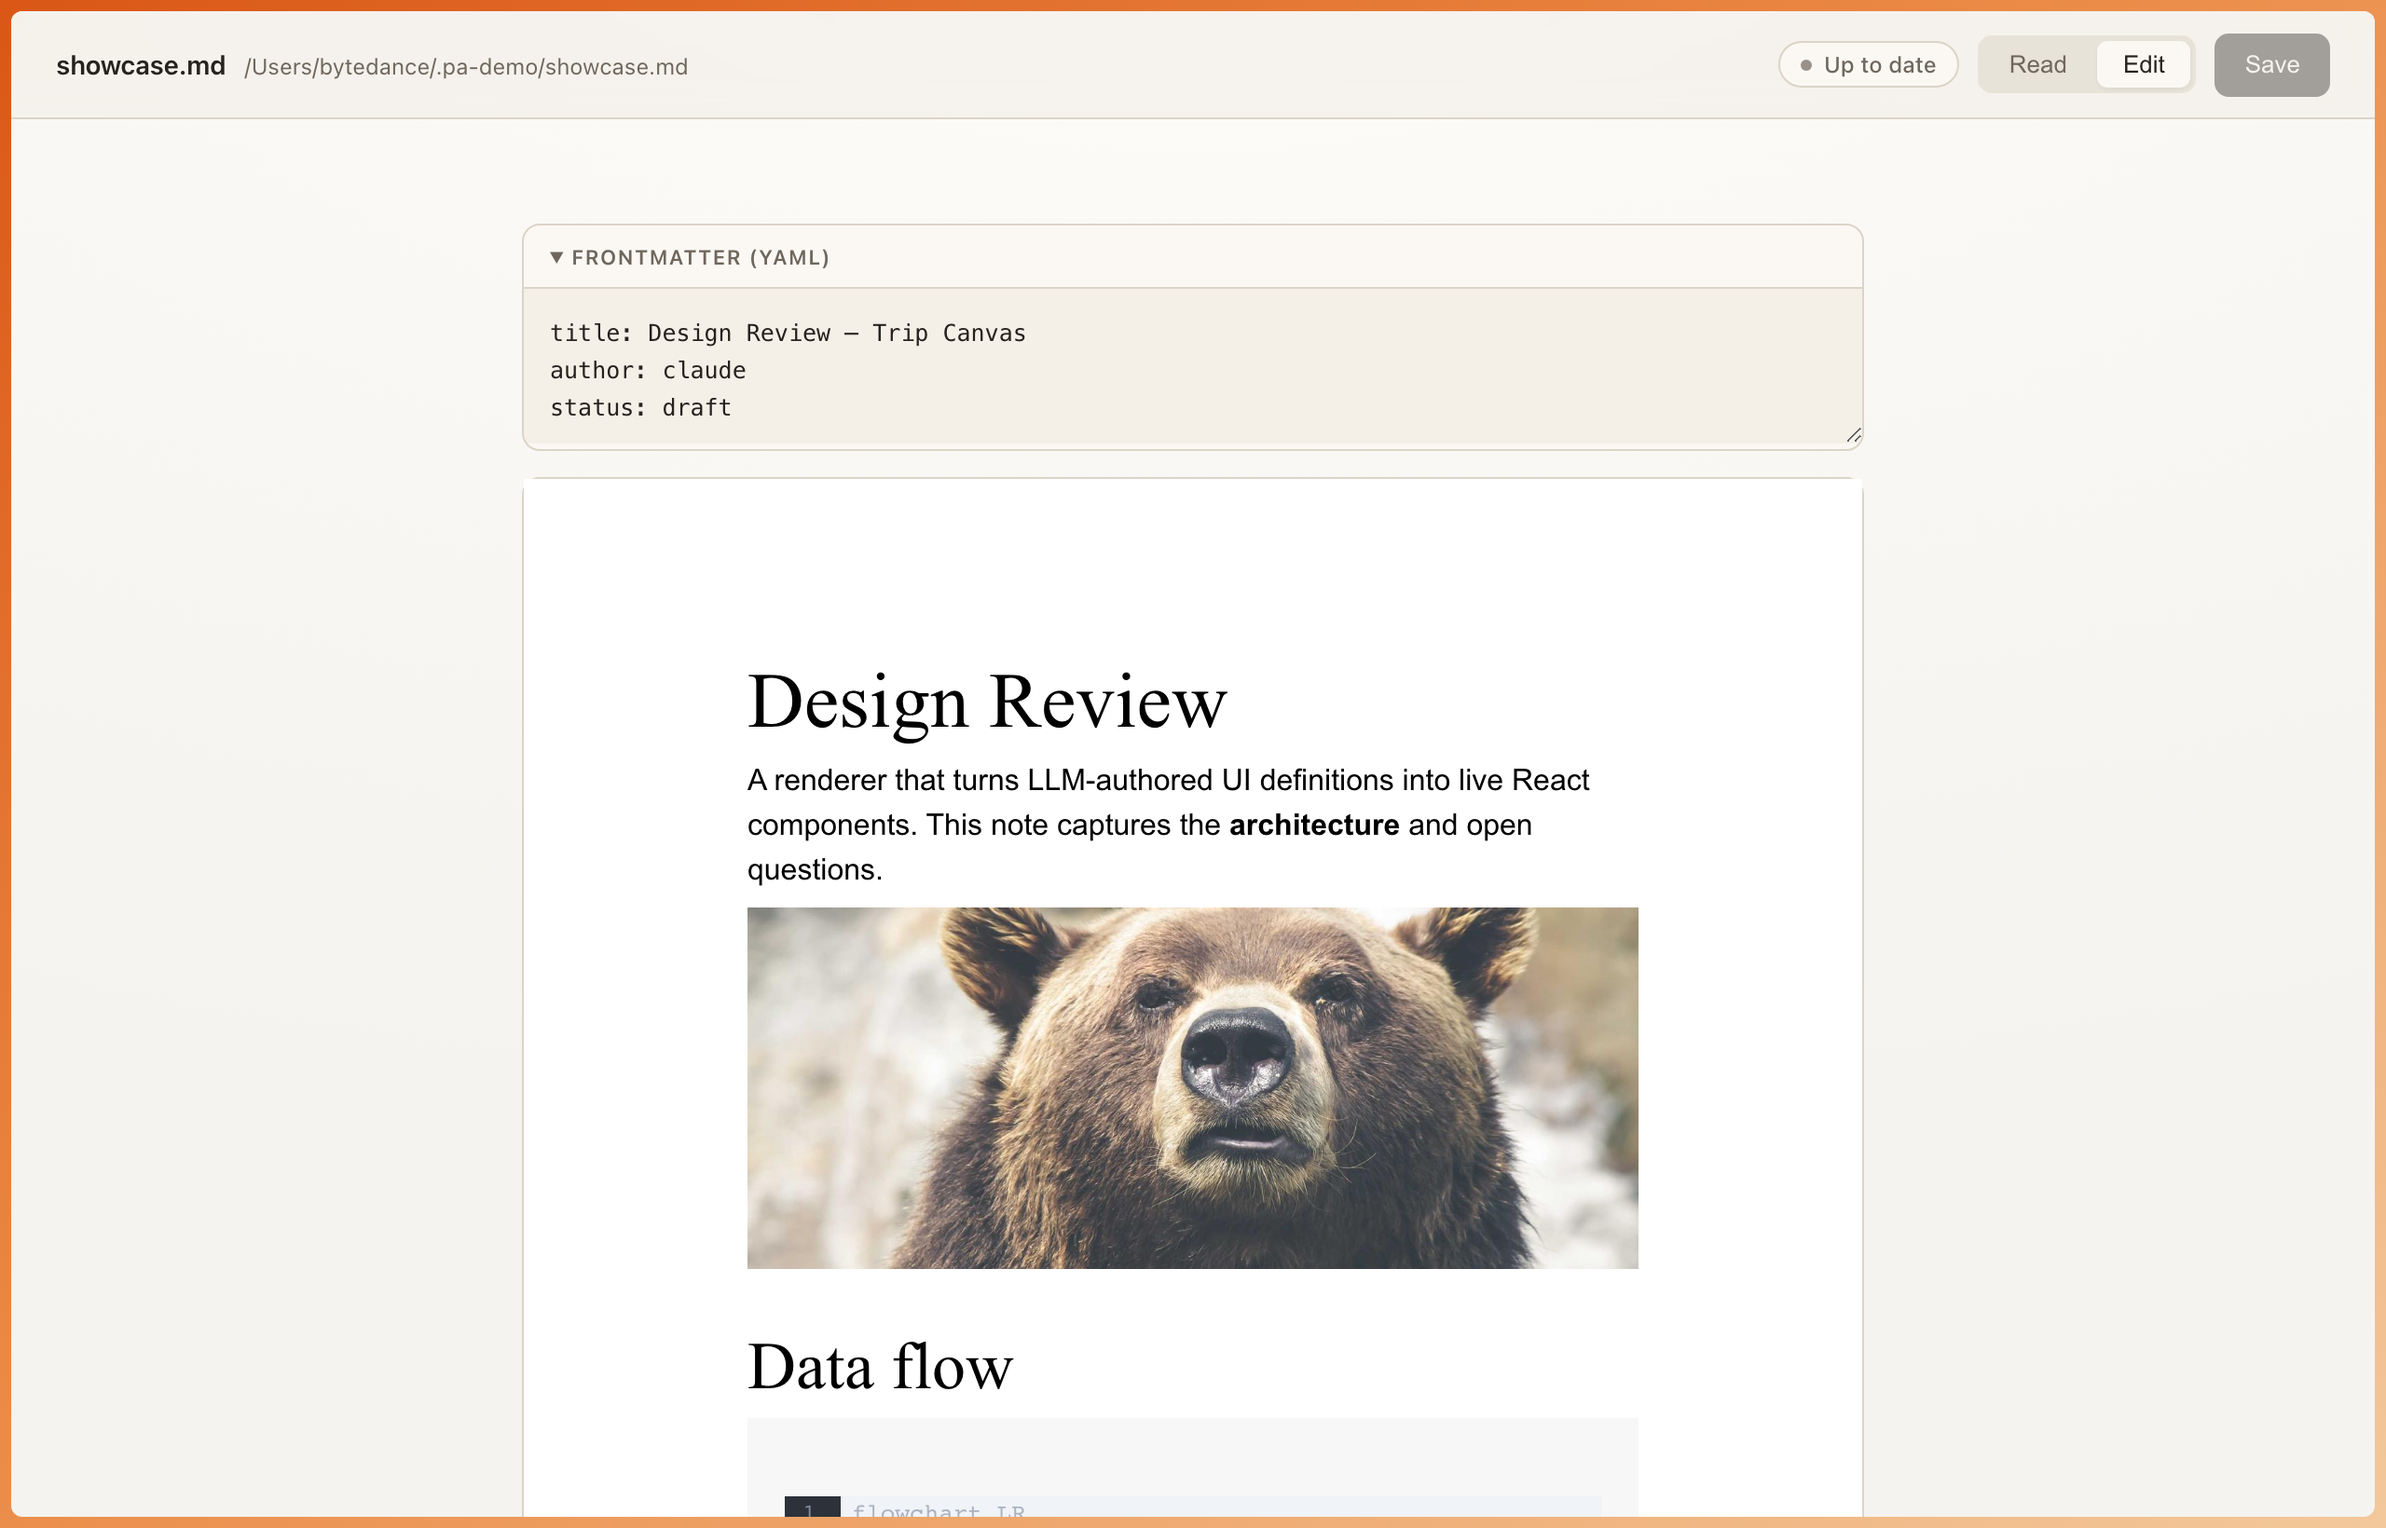
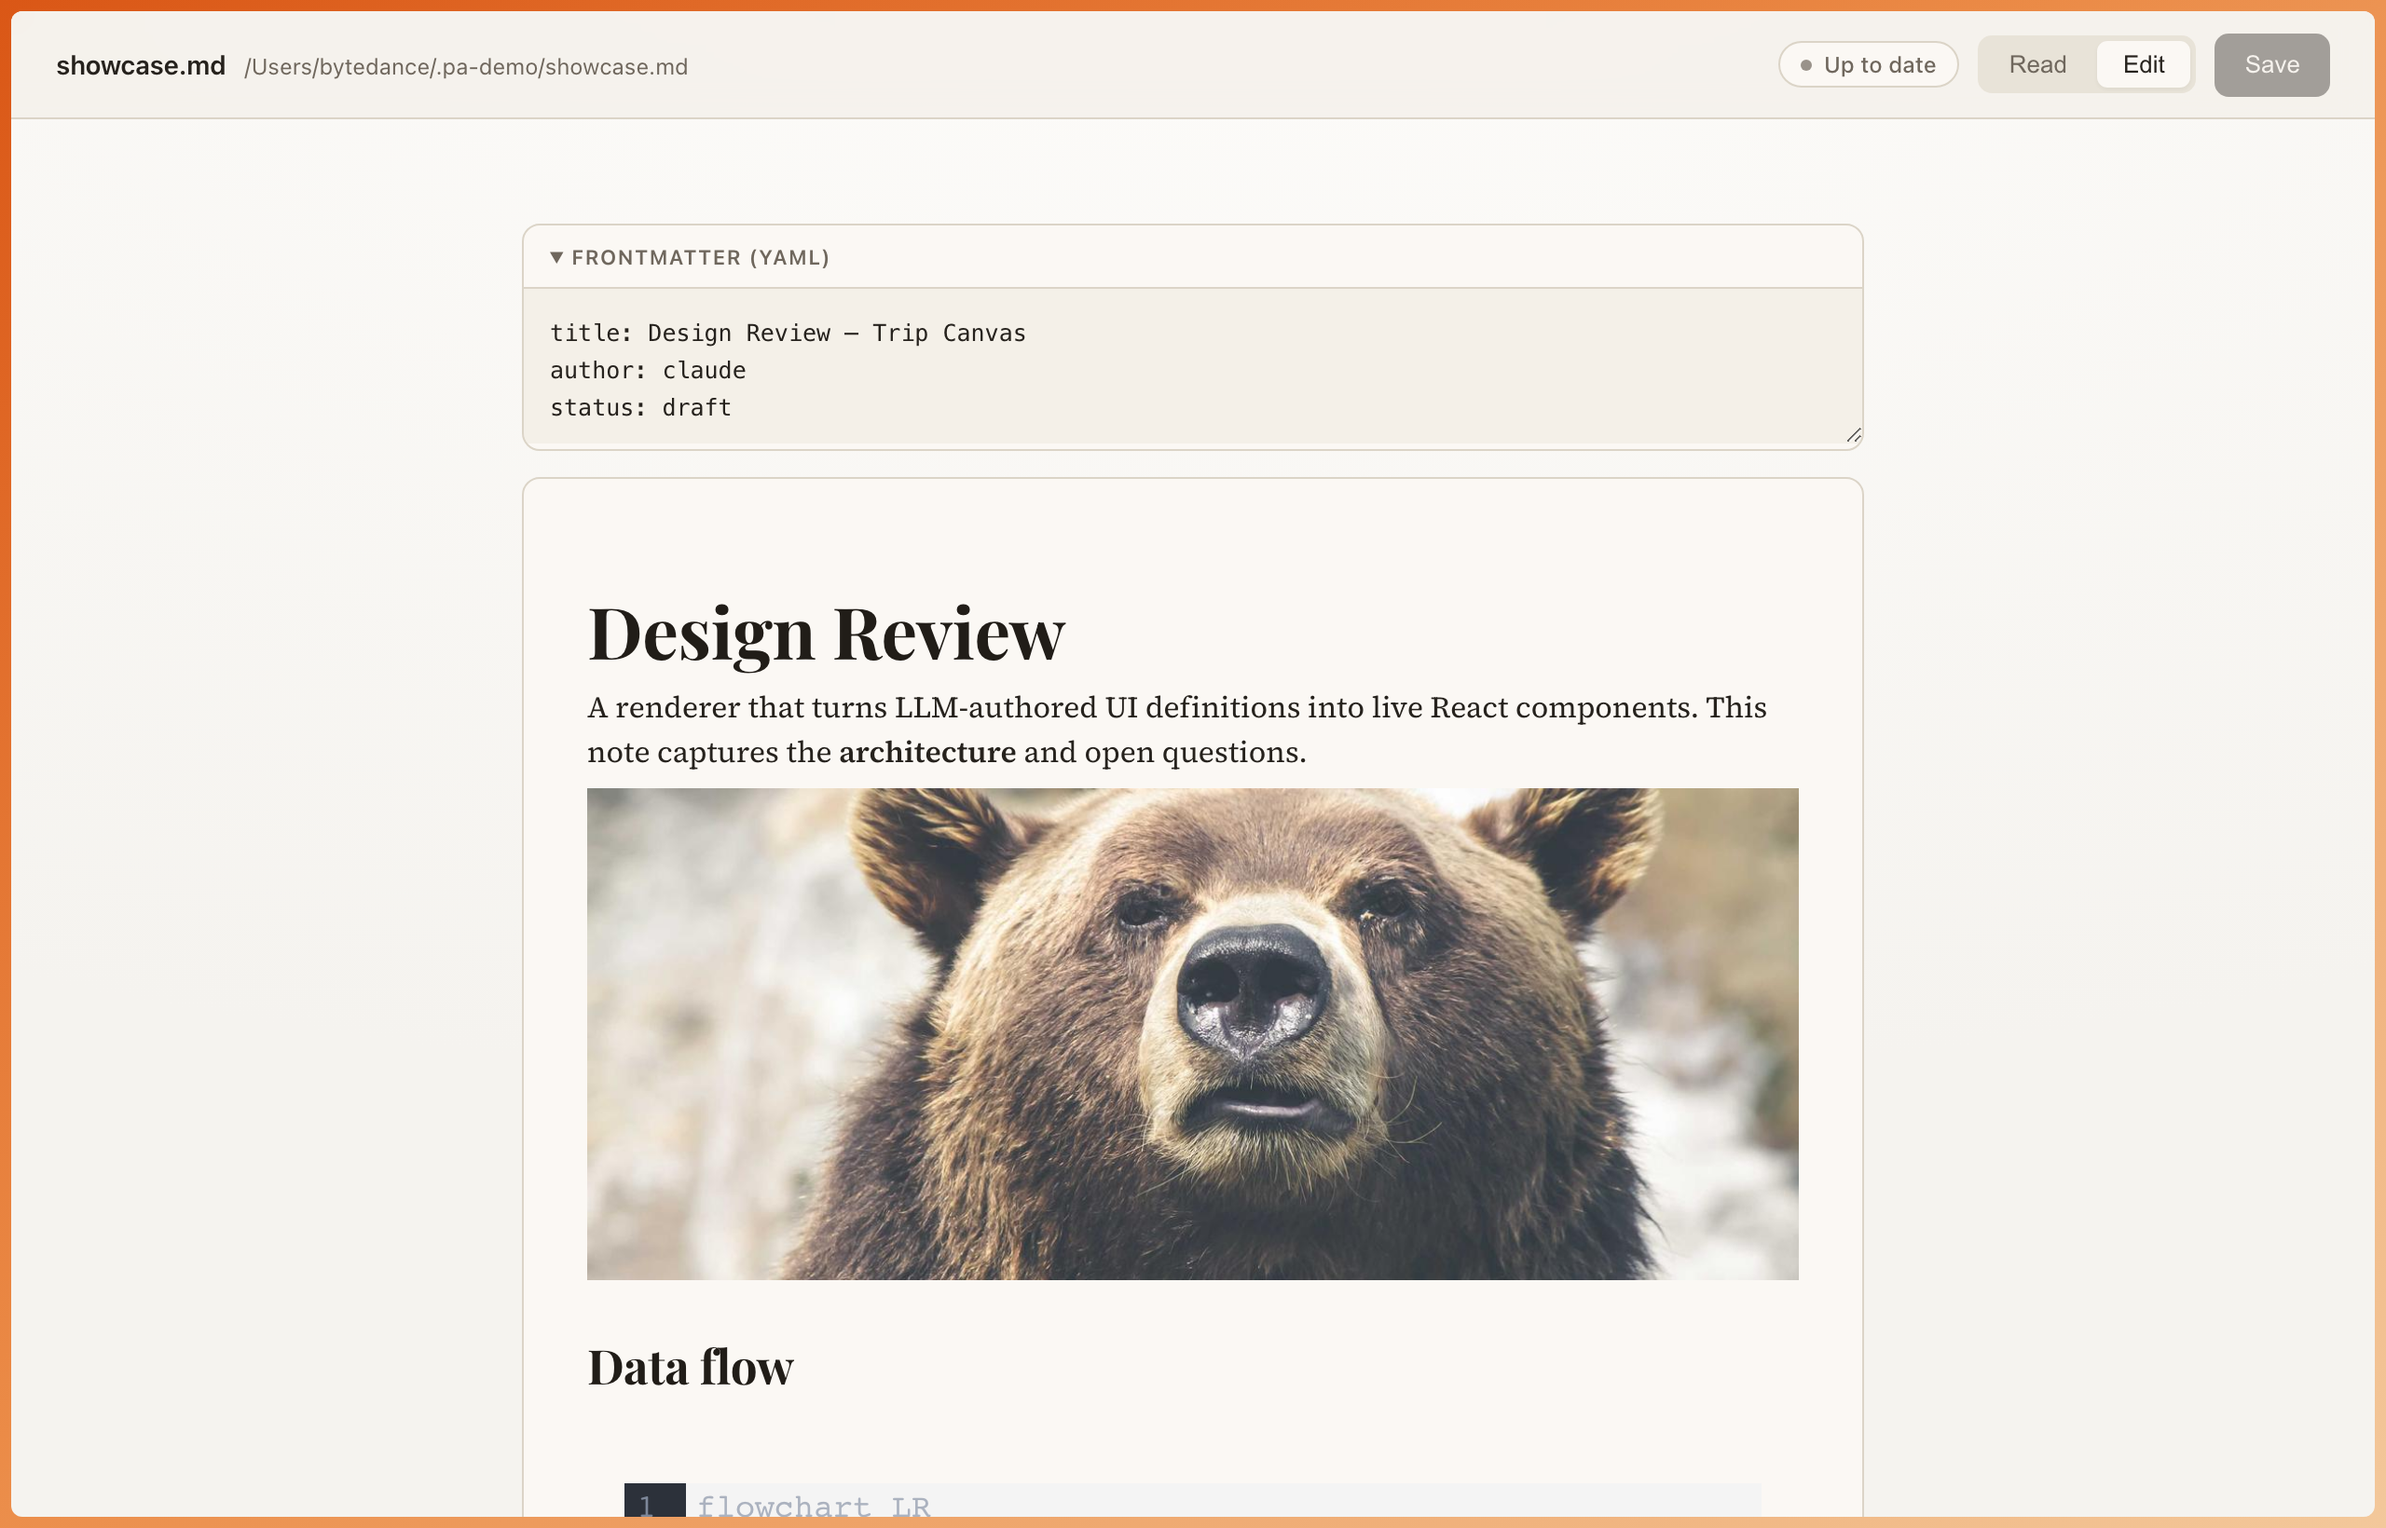
style(ui): theme Milkdown edit mode to match the editorial read view
- Remap Crepe design tokens (fonts + colors) to editorial palette: Playfair
  display headings, Source Serif body, warm paper, orange accent/links
- Typography parity (sizes, line-height, blockquote) with the read view
- Refresh edit-mode README screenshot

diff --git a/src/styles.css b/src/styles.css
@@ -397,11 +397,62 @@ body {
   outline: none;
 }
 
-/* ---- Crepe editor host ---- */
+/* ---- Crepe editor host: themed to match the editorial read view ---- */
 .crepe-host {
   background: hsl(var(--card));
   border: 1px solid hsl(var(--border));
   border-radius: var(--radius);
+  padding: 8px 6px;
+}
+
+/* Re-map Crepe's design tokens to our editorial palette + fonts. */
+.crepe-host .milkdown {
+  --crepe-font-title: var(--font-display);
+  --crepe-font-default: var(--font-serif);
+  --crepe-color-background: hsl(var(--card));
+  --crepe-color-on-background: hsl(var(--foreground));
+  --crepe-color-surface: hsl(var(--card));
+  --crepe-color-surface-low: hsl(var(--muted) / 0.6);
+  --crepe-color-on-surface: hsl(var(--foreground));
+  --crepe-color-on-surface-variant: hsl(var(--muted-foreground));
+  --crepe-color-outline: hsl(var(--border));
+  --crepe-color-primary: hsl(var(--accent));
+  --crepe-color-secondary: hsl(var(--accent) / 0.5);
+  --crepe-color-on-secondary: hsl(var(--accent-foreground));
+  --crepe-color-inverse: hsl(var(--foreground));
+  --crepe-color-on-inverse: hsl(var(--card));
+  --crepe-color-inline-code: hsl(var(--accent));
+  --crepe-color-inline-area: hsl(var(--muted) / 0.7);
+  --crepe-color-hover: hsl(var(--muted) / 0.6);
+  --crepe-color-selected: hsl(var(--accent) / 0.16);
+  --crepe-color-error: hsl(0 60% 45%);
+  --crepe-shadow-1: var(--shadow-sm);
+  --crepe-shadow-2: var(--shadow);
+}
+
+/* Typography parity with the read view. */
+.crepe-host .ProseMirror {
+  font-family: var(--font-serif);
+  font-size: 17.5px;
+  line-height: 1.8;
+  color: hsl(var(--foreground));
+  padding: 16px 28px 40px;
+}
+.crepe-host .ProseMirror :is(h1, h2, h3, h4, h5, h6) {
+  font-family: var(--font-display);
+  font-weight: 700;
+  letter-spacing: -0.005em;
+  line-height: 1.2;
+  color: hsl(var(--heading));
+}
+.crepe-host .ProseMirror h1 { font-size: 2.4rem; }
+.crepe-host .ProseMirror h2 { font-size: 1.6rem; }
+.crepe-host .ProseMirror h3 { font-size: 1.25rem; }
+.crepe-host .ProseMirror a { color: hsl(var(--link)); }
+.crepe-host .ProseMirror blockquote {
+  border-left: 3px solid hsl(var(--accent) / 0.5);
+  color: hsl(var(--muted-foreground));
+  font-style: italic;
 }
 
 /* ---- Error screen ---- */
